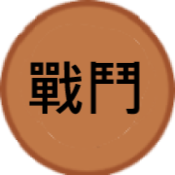
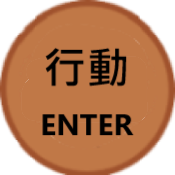
partner UI finish

Changed region(s): [[0.1429, 0.2571, 0.8, 0.8], [0.8, 0.6571, 0.8286, 0.6857]]

diff --git a/魔塔-回合制RPG/main.py b/魔塔-回合制RPG/main.py
@@ -81,6 +81,7 @@ class flags(object):
         self.in_gacha = False
         self.in_gotcha = False
         self.in_wp_intro = False
+        self.partner_font = False
 
 
 flag = flags()
@@ -107,7 +108,7 @@ il = []
 il.append(shopitem("招募用紙", 100))
 il.append(shopitem("回復藥水", 50))
 il.append(shopitem("經驗值藥水", 120))
-il.append(shopitem("萬能輝星", 500))
+il.append(shopitem("潛能輝星", 500))
 
 # 武器
 
@@ -902,6 +903,24 @@ partner_l_img = [partner_0_l_img, partner_1_l_img,
                  partner_2_l_img, partner_3_l_img, partner_4_l_img]
 p_equip_img = pygame.image.load(os.path.join(
     "魔塔-回合制RPG", "image", "partner", "equip_bot.png")).convert()
+p_HP_img = pygame.image.load(os.path.join(
+    "魔塔-回合制RPG", "image", "partner", "HP_bot.png")).convert_alpha()
+p_recover_font_img = pygame.image.load(os.path.join(
+    "魔塔-回合制RPG", "image", "partner", "recover_font.png")).convert_alpha()
+p_recover_font2_img = pygame.image.load(os.path.join(
+    "魔塔-回合制RPG", "image", "partner", "recover_font2.png")).convert_alpha()
+p_EXP_img = pygame.image.load(os.path.join(
+    "魔塔-回合制RPG", "image", "partner", "EXP_bot.png")).convert_alpha()
+p_EXP_font_img = pygame.image.load(os.path.join(
+    "魔塔-回合制RPG", "image", "partner", "EXP_font.png")).convert_alpha()
+p_EXP_font2_img = pygame.image.load(os.path.join(
+    "魔塔-回合制RPG", "image", "partner", "EXP_font2.png")).convert_alpha()
+p_star_img = pygame.image.load(os.path.join(
+    "魔塔-回合制RPG", "image", "partner", "star_bot.png")).convert_alpha()
+p_star_font_img = pygame.image.load(os.path.join(
+    "魔塔-回合制RPG", "image", "partner", "star_font.png")).convert_alpha()
+p_star_font2_img = pygame.image.load(os.path.join(
+    "魔塔-回合制RPG", "image", "partner", "star_font2.png")).convert_alpha()
 
 # 字體(font)設定
 font_27_18 = pygame.font.SysFont("microsoftjhenghei", 18)
@@ -950,7 +969,7 @@ bag_coin_font_1 = font_27_80_B.render("錢", False, GOLDEN)
 bag_coin_font_1_w = bag_coin_font_1.get_width()
 bag_coin_font_1_h = bag_coin_font_1.get_height()
 bag_coin_font_2 = font_27_50.render("就是錢", False, BLACK)
-bag_us_font_1 = font_27_80_B.render("萬能輝星", False, BLUE_VIOLET)
+bag_us_font_1 = font_27_80_B.render("潛能輝星", False, BLUE_VIOLET)
 bag_us_font_1_w = bag_us_font_1.get_width()
 bag_us_font_1_h = bag_us_font_1.get_height()
 bag_us_font_2 = font_27_50.render("擁有不可思議力量的一顆星星", False, BLACK)
@@ -1753,46 +1772,43 @@ class fn_pn(pygame.sprite.Sprite):
         self.pndetailrect.topleft = (400, 150)
         self.pnd_name = font_27_50_B.render(self.perform.name, False, BLACK)
         self.pnd_namerect = self.pnd_name.get_rect()
-        self.pnd_namerect.topleft = (40, 40)
-        self.pndetail.blit(self.pnd_name, self.pnd_namerect)
         self.pnd_work = font_27_30_B.render(
             '定位： '+self.perform.workstr, False, GRAY)
         self.pnd_workrect = self.pnd_work.get_rect()
-        self.pnd_workrect.topleft = (45, self.pnd_namerect.bottom+5)
-        self.pndetail.blit(self.pnd_work, self.pnd_workrect)
         self.pnd_equipbot = p_equip_img.copy()
         self.pnd_equiprect = self.pnd_equipbot.get_rect()
-        self.pnd_equiprect.topleft = (45, self.pnd_workrect.bottom+10)
-        self.pndetail.blit(self.pnd_equipbot, self.pnd_equiprect)
         self.pnd_img = partner_l_img[self.act].copy()
         self.pnd_rect = self.pnd_img.get_rect()
-        self.pnd_rect.midtop = (450, 100)
-        self.pndetail.blit(self.pnd_img, self.pnd_rect)
         self.pnd_detal_LV = font_27_30_B.render(
             'LV：'+str(self.perform.level), False, BLACK)
         self.pnd_detal_LVrect = self.pnd_detal_LV.get_rect()
-        self.pnd_detal_LVrect.topleft = (650, 40)
-        self.pndetail.blit(self.pnd_detal_LV, self.pnd_detal_LVrect)
         self.pnd_detal_EXP = font_27_30_B.render(
             'EXP：'+str(self.perform.exp)+' / '+str(self.perform.level*2), False, BLACK)
         self.pnd_detal_EXPrect = self.pnd_detal_EXP.get_rect()
-        self.pnd_detal_EXPrect.topleft = (650, self.pnd_detal_LVrect.bottom+5)
-        self.pndetail.blit(self.pnd_detal_EXP, self.pnd_detal_EXPrect)
         self.pnd_detal_HP = font_27_30_B.render(
             'HP：'+str(self.perform.nHP)+' / '+str(self.perform.HP[self.perform.level]+self.perform.HPlimit), False, BLACK)
         self.pnd_detal_HPrect = self.pnd_detal_HP.get_rect()
-        self.pnd_detal_HPrect.topleft = (650, self.pnd_detal_EXPrect.bottom+5)
-        self.pndetail.blit(self.pnd_detal_HP, self.pnd_detal_HPrect)
         self.pnd_detal_ATK = font_27_30_B.render(
             'ATK：'+str(self.perform.nATK), False, BLACK)
         self.pnd_detal_ATKrect = self.pnd_detal_ATK.get_rect()
-        self.pnd_detal_ATKrect.topleft = (650, self.pnd_detal_HPrect.bottom+5)
-        self.pndetail.blit(self.pnd_detal_ATK, self.pnd_detal_ATKrect)
         self.pnd_detal_DEF = font_27_30_B.render(
             'DEF：'+str(self.perform.nDEF), False, BLACK)
         self.pnd_detal_DEFrect = self.pnd_detal_DEF.get_rect()
-        self.pnd_detal_DEFrect.topleft = (650, self.pnd_detal_ATKrect.bottom+5)
-        self.pndetail.blit(self.pnd_detal_DEF, self.pnd_detal_DEFrect)
+        self.pnd_HPrec = p_HP_img.copy()
+        self.pnd_HPrecrect = self.pnd_HPrec.get_rect()
+        self.pnd_HPrec_mask = pygame.mask.from_surface(self.pnd_HPrec)
+        self.pnd_HPrec_maskrect = self.pnd_HPrec_mask.get_rect()
+        self.pnd_HPrec_maskrect.topleft = (1360, 170)
+        self.pnd_EXP = p_EXP_img.copy()
+        self.pnd_EXPrect = self.pnd_EXP.get_rect()
+        self.pnd_EXP_mask = pygame.mask.from_surface(self.pnd_EXP)
+        self.pnd_EXP_maskrect = self.pnd_EXP_mask.get_rect()
+        self.pnd_EXP_maskrect.topleft = (1360, 270)
+        self.pnd_star = p_star_img.copy()
+        self.pnd_starrect = self.pnd_star.get_rect()
+        self.pnd_star_mask = pygame.mask.from_surface(self.pnd_star)
+        self.pnd_star_maskrect = self.pnd_star_mask.get_rect()
+        self.pnd_star_maskrect.topleft = (1360, 370)
         self.image.blit(self.pndetail, self.pndetailrect)
 
     def update(self):
@@ -1802,6 +1818,19 @@ class fn_pn(pygame.sprite.Sprite):
                     self.act = i
                     self.h_update()
                     break
+            else:
+                if self.pnd_HPrec_maskrect.collidepoint(mouse_location):
+                    flag.partner_font = True
+                    flag.sprite_need_change = True
+                    sprite.partner_font.situation = 0
+                elif self.pnd_EXP_maskrect.collidepoint(mouse_location):
+                    flag.partner_font = True
+                    flag.sprite_need_change = True
+                    sprite.partner_font.situation = 1
+                elif self.pnd_star_maskrect.collidepoint(mouse_location):
+                    flag.partner_font = True
+                    flag.sprite_need_change = True
+                    sprite.partner_font.situation = 2
 
     def h_update(self):
         self.image = pygame.surface.Surface((1500, 800))
@@ -1889,6 +1918,18 @@ class fn_pn(pygame.sprite.Sprite):
         self.pnd_detal_ultATKrect.midtop = (
             450, self.pnd_detal_skATKrect.bottom+5)
         self.pndetail.blit(self.pnd_detal_ultATK, self.pnd_detal_ultATKrect)
+        self.pnd_HPrec = p_HP_img.copy()
+        self.pnd_HPrecrect = self.pnd_HPrec.get_rect()
+        self.pnd_HPrecrect.topleft = (960, 20)
+        self.pndetail.blit(self.pnd_HPrec, self.pnd_HPrecrect)
+        self.pnd_EXP = p_EXP_img.copy()
+        self.pnd_EXPrect = self.pnd_EXP.get_rect()
+        self.pnd_EXPrect.topleft = (960, 120)
+        self.pndetail.blit(self.pnd_EXP, self.pnd_EXPrect)
+        self.pnd_star = p_star_img.copy()
+        self.pnd_starrect = self.pnd_star.get_rect()
+        self.pnd_starrect.topleft = (960, 220)
+        self.pndetail.blit(self.pnd_star, self.pnd_starrect)
         self.image.blit(self.pndetail, self.pndetailrect)
 
     def skfont(self):
@@ -1932,6 +1973,54 @@ class fn_pn(pygame.sprite.Sprite):
         if ml[0] > arr[0] and ml[0] < arr[0]+150 and ml[1] > arr[1]+150 and ml[1] < arr[1]+350:
             return True
         return False
+
+
+class p_font(pygame.sprite.Sprite):
+    def __init__(self):
+        pygame.sprite.Sprite.__init__(self)
+        self.image = pygame.surface.Surface((1500, 800), pygame.SRCALPHA)
+        self.rect = self.image.get_rect()
+        self.rect.topleft = (0, 0)
+        self.yrect = yes_img.get_rect()
+        self.yrect.topleft = (875, 550)
+        self.nrect = no_img.get_rect()
+        self.nrect.topleft = (475, 550)
+        self.image.blit(yes_img.copy(), self.yrect)
+        self.image.blit(no_img.copy(), self.nrect)
+        self.situation = 0
+        self.font_img = [p_recover_font_img, p_EXP_font_img, p_star_font_img]
+        self.font2_img = [p_recover_font2_img,
+                          p_EXP_font2_img, p_star_font2_img]
+        self.item = ['lp', 'exp', 'us']
+
+    def update(self):
+        self.image = pygame.surface.Surface((1500, 800), pygame.SRCALPHA)
+        self.image.blit(self.font_img[self.situation].copy(), (450, 150))
+        self.image.blit(yes_img.copy(), self.yrect)
+        self.image.blit(no_img.copy(), self.nrect)
+        if self.yrect.collidepoint(mouse_location) and mouse_one_press(0):
+            if variable.haveitem[self.item[self.situation]] > 0:
+                variable.haveitem[self.item[self.situation]] -= 1
+                if self.situation == 0:
+                    sprite.act_information.perform.nHP += (
+                        sprite.act_information.perform.HP[sprite.act_information.perform.level])//5
+                elif self.situation == 1:
+                    sprite.partner_bag.perform.exp += 1
+                    if sprite.partner_bag.perform.exp == sprite.partner_bag.perform.level*2:
+                        sprite.partner_bag.perform.LVup()
+                elif self.situation == 2:
+                    sprite.partner_bag.perform.skillup = True
+                flag.partner_font = False
+                flag.sprite_need_change = True
+            else:
+                self.image = pygame.surface.Surface(
+                    (1500, 800), pygame.SRCALPHA)
+                self.image.blit(
+                    self.font2_img[self.situation].copy(), (450, 150))
+                variable.work = 700
+        elif self.nrect.collidepoint(mouse_location) and mouse_one_press(0):
+            flag.partner_font = False
+            flag.sprite_need_change = True
 
 # 新手禮物箱
 
@@ -3189,7 +3278,7 @@ class a_inf(pygame.sprite.Sprite):
                 elif (self.healbotmrect.collidepoint(mouse_location) and mouse_one_press(0)) or keyboard_one_press(pygame.K_h):
                     flag.heal_cha = True
                     flag.sprite_need_change = True
-                elif (self.exebotmrect.collidepoint(mouse_location) and mouse_one_press(0)):
+                elif (self.exebotmrect.collidepoint(mouse_location) and mouse_one_press(0)) or keyboard_one_press(pygame.K_RETURN):
                     for i in range(len(variable.myATKtype)):
                         if variable.myATKtype[i] == -1 and variable.character_list[variable.usecha[i]].dizz == 0:
                             sprite.battle_font.display = True
@@ -3626,22 +3715,34 @@ class a_inf(pygame.sprite.Sprite):
                             if variable.usecha[self.act] == 0:
                                 self.str2 = self.perform.skfont[1][0]
                                 self.perform.skilling = 3
-                                self.perform.SKCD = self.perform.oriSKCD+1
+                                if self.perform.skillup:
+                                    self.perform.SKCD = self.perform.oriUPSKCD+1
+                                else:
+                                    self.perform.SKCD = self.perform.oriSKCD+1
                             elif variable.usecha[self.act] == 1:
                                 self.str2 = self.perform.skfont[1][0]
                                 self.perform.skilling = 1
-                                self.perform.SKCD = self.perform.oriSKCD+1
+                                if self.perform.skillup:
+                                    self.perform.SKCD = self.perform.oriUPSKCD+1
+                                else:
+                                    self.perform.SKCD = self.perform.oriSKCD+1
                             elif variable.usecha[self.act] == 2:
                                 self.str2 = self.perform.skfont[1][0]
                                 self.perform.mock += 3
-                                self.perform.SKCD = self.perform.oriSKCD+1
+                                if self.perform.skillup:
+                                    self.perform.SKCD = self.perform.oriUPSKCD+1
+                                else:
+                                    self.perform.SKCD = self.perform.oriSKCD+1
                                 if self.perform.skillup:
                                     self.perform.DEFlimit += int(
                                         self.perform.nDEF*0.2)
                             elif variable.usecha[self.act] == 3:
                                 self.str2 = self.perform.skfont[1][0]
                                 self.perform.skilling = 2
-                                self.perform.SKCD = self.perform.oriSKCD+1
+                                if self.perform.skillup:
+                                    self.perform.SKCD = self.perform.oriUPSKCD+1
+                                else:
+                                    self.perform.SKCD = self.perform.oriSKCD+1
                             elif variable.usecha[self.act] == 4:
                                 tmplist = []
                                 for i in variable.usecha:
@@ -3655,7 +3756,10 @@ class a_inf(pygame.sprite.Sprite):
                                     self.str2 += self.perform.skfont[1][0]
                                 else:
                                     self.str2 = '沒有合適對象，使用失敗'
-                                self.perform.SKCD = self.perform.oriSKCD+1
+                                if self.perform.skillup:
+                                    self.perform.SKCD = self.perform.oriUPSKCD+1
+                                else:
+                                    self.perform.SKCD = self.perform.oriSKCD+1
                         elif variable.myATKtype[self.act] == 2:  # 奧義
                             self.str1 = self.perform.ultfont[0][0]
                             if variable.usecha[self.act] == 0:
@@ -4236,6 +4340,7 @@ class sprites(object):
         self.weapon_bag = fn_wp()
         self.bag_weapon_intro = b_weapon_intro()
         self.partner_bag = fn_pn()
+        self.partner_font = p_font()
         self.nobgift = nobgift()
         self.giftgain = gift_gain()
         self.gachaUI = gacha()
@@ -4345,7 +4450,8 @@ for i in range(1, 5):
     variable.character_list[i].ULTCD = 0
 variable.usecha = [0, 3, 4]
 sprite_group.battle_sprite.add(sprite.battle_character_1)
-sprite_group.battle_sprite.add(sprite.battle_character_2)"""
+sprite_group.battle_sprite.add(sprite.battle_character_2)
+variable.haveitem['exp'] = 2"""
 
 while flag.running:
 
@@ -4408,6 +4514,10 @@ while flag.running:
         elif flag.in_partner:
             sprite.partner_bag.h_update()
             all_sprite = sprite_group.partner_sprite.copy()
+            if flag.partner_font:
+                all_sprite.empty()
+                all_sprite.add(sprite.partner_font)
+                background_sprite = sprite_group.partner_sprite.copy()
         elif flag.in_weapon:
             if not flag.in_wp_intro:
                 sprite.weapon_bag.h_update()
@@ -4482,6 +4592,9 @@ while flag.running:
         if variable.work <= 0:
             if flag.heal_cha:
                 flag.heal_cha = False
+                flag.sprite_need_change = True
+            if flag.partner_font:
+                flag.partner_font = False
                 flag.sprite_need_change = True
             variable.work = 0
 
